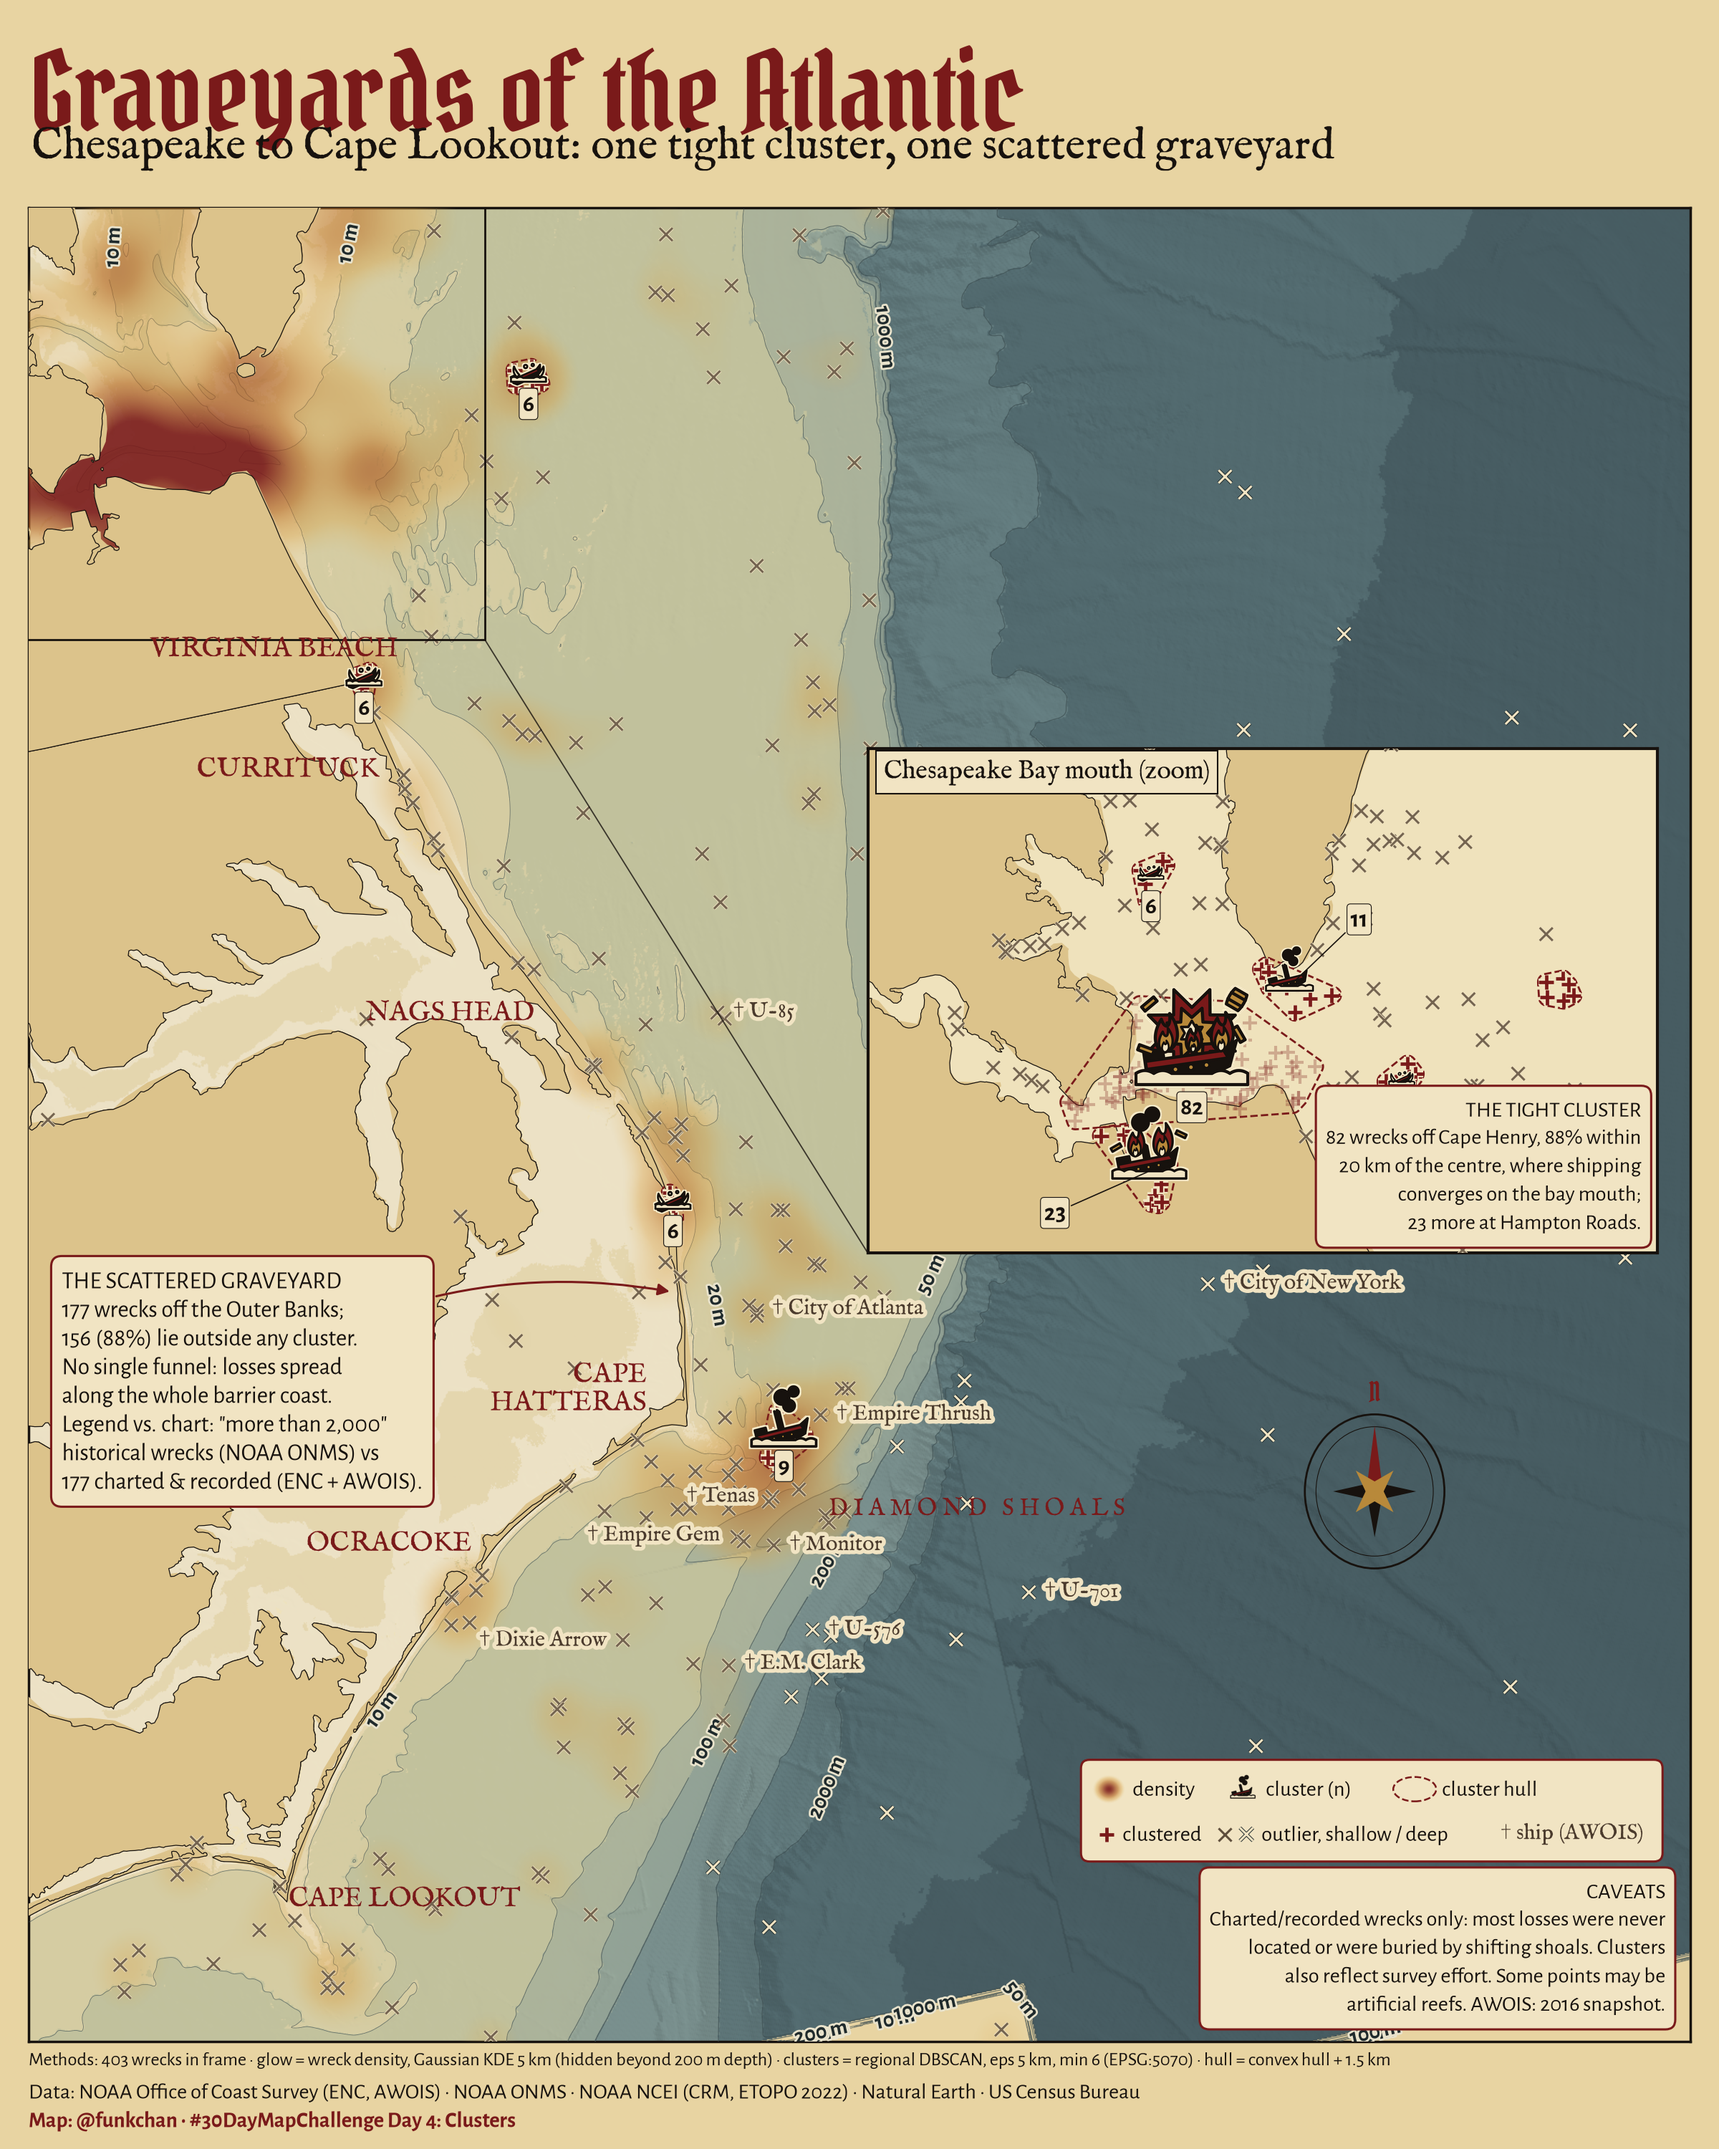
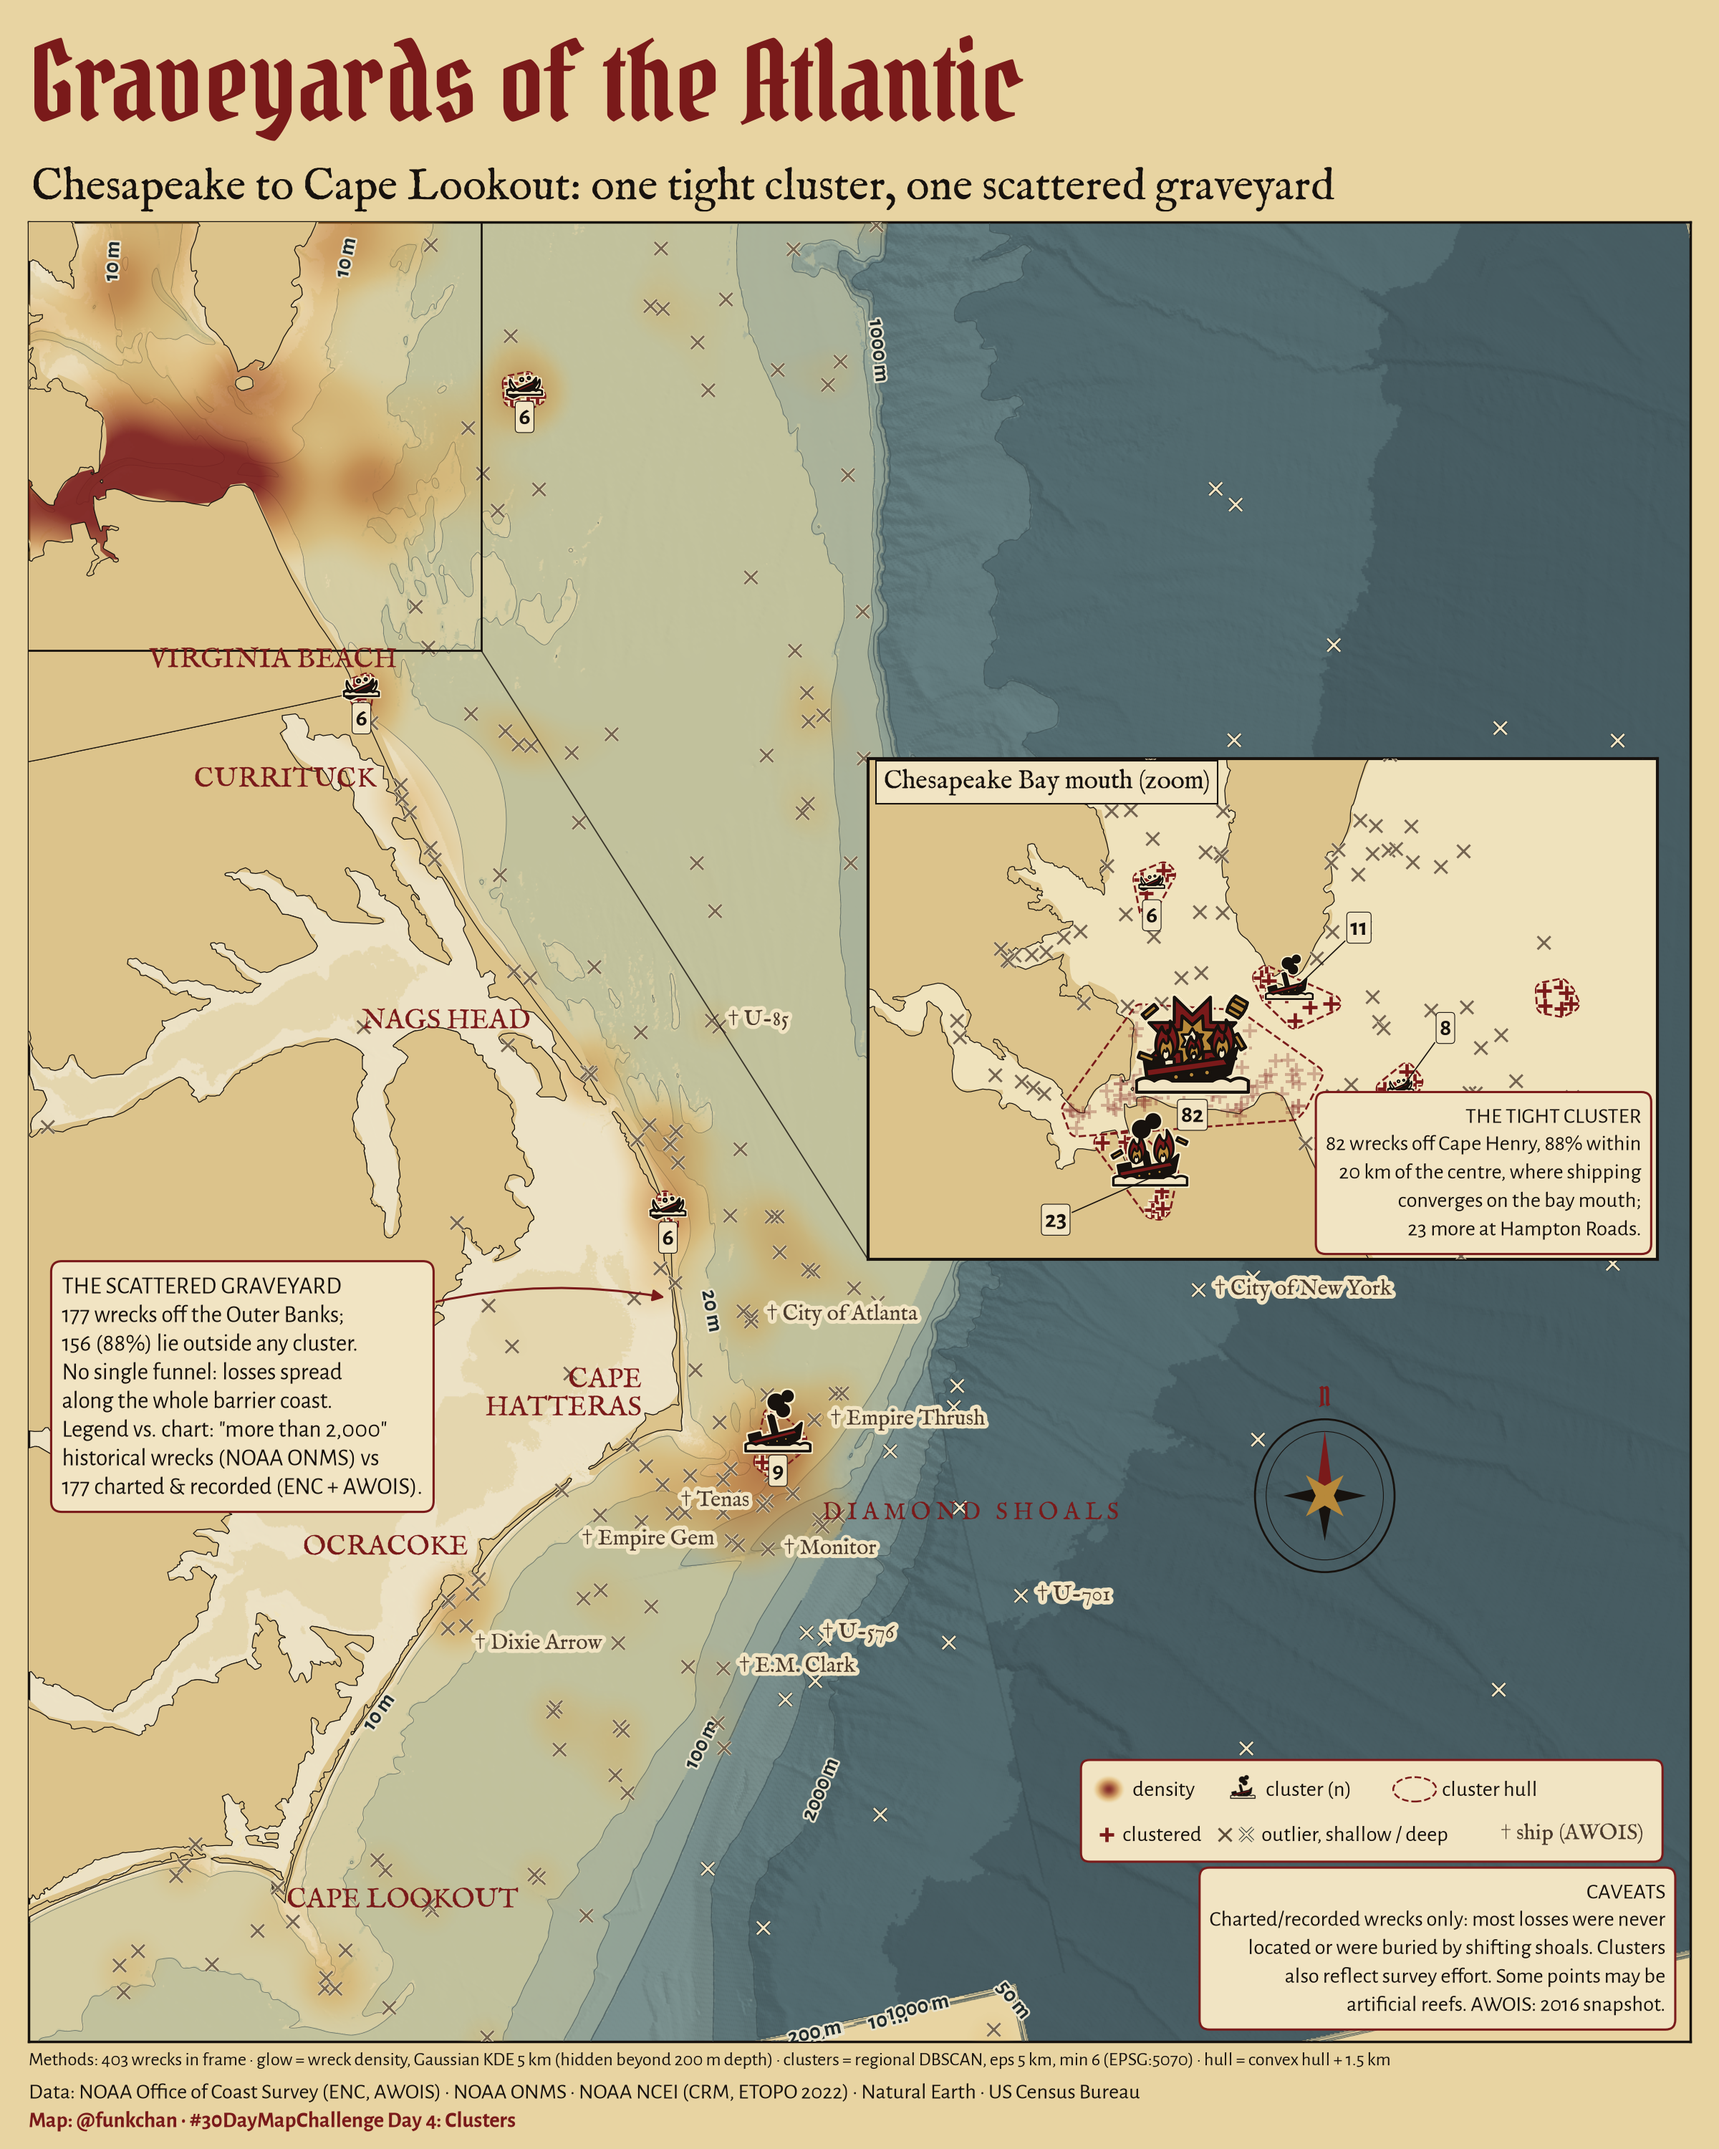
Day 4: fix title/subtitle overlap and label collisions

diff --git a/2026/day04-clusters-shipwrecks/render_e.py b/2026/day04-clusters-shipwrecks/render_e.py
@@ -2,7 +2,7 @@ import matplotlib.transforms as mt
 from pirate import *
 W,H=2400,3000;fig=plt.figure(figsize=(24,30),dpi=100);fig.patch.set_facecolor(PARCH)
 BX=(-76.75,34.35,-74.9,36.95)
-MW,MH=2320,2560
+MW,MH=2320,2540
 ax=fig.add_axes([40/W,1-2850/H,MW/W,MH/H])
 kp=gpd.GeoSeries(gpd.points_from_xy([-76.15,-76.75,-76.2],[37.02,34.5,35.5]),crs=4326).to_crs(E)
 y0=kp.y.min()-12000;y1=kp.y.max()+42000;wx=kp.x.min()-26000;wid=(y1-y0)*MW/MH
@@ -37,7 +37,7 @@ big=C.n.idxmax()
 pirate.pts=P[(P.cl>=0)&(P.cl!=big)]
 basemap(ia,ei,gly=.8,cg_=C[inI],counts=False,**kw)
 bp=P[P.cl==big];ia.scatter(bp.geometry.x,bp.geometry.y,s=170*1.3,marker='+',c=OX,lw=3,alpha=.28,zorder=5)
-OFF={11:(70,55),23:(-95,-30),82:(0,-22)}
+OFF={11:(70,55),23:(-95,-30),82:(0,-22),8:(45,50)}
 for k_,r_ in C[inI].iterrows():
     dx_,dy_=OFF.get(int(r_.n),(0,-18))
     ia.annotate(f'{int(r_.n)}',(r_.geometry.x,r_.geometry.y),xytext=(dx_,dy_),textcoords='offset points',ha='center',va='top' if dy_<=0 else 'bottom',fontsize=24,family=NUM,fontweight='bold',color=BLK,zorder=9,
@@ -128,8 +128,8 @@ for r in a.itertuples():
         if axb.contains(bb.x0,bb.y0) and axb.contains(bb.x1,bb.y1) and not any(bb.overlaps(o) for o in placed+gb):
             placed.append(bb);nl+=1;break
         tx.remove()
-fig.text(40/W,1-30/H,'Graveyards of the Atlantic',fontsize=110,family=TITLE,color=OX,va='top')
-fig.text(44/W,1-175/H,'Chesapeake to Cape Lookout: one tight cluster, one scattered graveyard',fontsize=44,family=LAB,color=BLK,va='top')
+fig.text(40/W,1-16/H,'Graveyards of the Atlantic',fontsize=110,family=TITLE,color=OX,va='top')
+fig.text(44/W,1-232/H,'Chesapeake to Cape Lookout: one tight cluster, one scattered graveyard',fontsize=44,family=LAB,color=BLK,va='top')
 fig.text(40/W,1-2862/H,f'Methods: {tot:,} wrecks in frame · glow = wreck density, Gaussian KDE 5 km (hidden beyond 200 m depth) · clusters = regional DBSCAN, eps 5 km, min 6 (EPSG:5070) · hull = convex hull + 1.5 km',fontsize=19,family=NUM,color=BLK,va='top')
 fig.text(40/W,1-2905/H,'Data: NOAA Office of Coast Survey (ENC, AWOIS) · NOAA ONMS · NOAA NCEI (CRM, ETOPO 2022) · Natural Earth · US Census Bureau',fontsize=22,family=NUM,color=BLK,va='top')
 fig.text(40/W,1-2945/H,'Map: @funkchan · #30DayMapChallenge Day 4: Clusters',fontsize=22,family=NUM,color=OX,va='top',fontweight='bold')
@@ -201,6 +201,17 @@ for t in ax.texts:
         if k: print('BOX COVERS',k,repr(t.get_text()[:20]))
 cx,cy=ax.transAxes.transform((cb[1],cb[2]));r=.07*axb.width
 print('compass covers',(np.hypot(px[:,0]-cx,px[:,1]-cy)<r).sum())
+fig.canvas.draw();_r=fig.canvas.get_renderer()
+_cl=set(cl_);_oth=[t for t in ax.texts if t not in _cl]
+for t in list(cl_):
+    b_=t.get_window_extent(_r)
+    if any(b_.overlaps(o.get_bbox_patch().get_window_extent(_r) if o.get_bbox_patch() else o.get_window_extent(_r)) for o in _oth):t.remove();print('drop isobath label',t.get_text())
+_t=fig.texts[0].get_window_extent(_r);_s=fig.texts[1].get_window_extent(_r);print('HEADER title bottom px',H-_t.y0,'subtitle top px',H-_s.y1,'gap',_s.y1 and _t.y0-_s.y1,'subtitle bottom',H-_s.y0,'map top',H-ax.get_window_extent().y1)
+_all=[t for t in fig.texts]+[t for a_ in fig.axes for t in a_.texts if t.get_visible() and t.get_text().strip() and t.axes is not None]
+_bb=[(t,(t.get_bbox_patch().get_window_extent(_r) if t.get_bbox_patch() else t.get_window_extent(_r))) for t in _all]
+for i in range(len(_bb)):
+  for j in range(i+1,len(_bb)):
+    if _bb[i][1].overlaps(_bb[j][1]):print('OVERLAP',repr(_bb[i][0].get_text()[:25]),repr(_bb[j][0].get_text()[:25]))
 fig.savefig('outputs/day04_final_v4.png',dpi=100,facecolor=PARCH)
 from PIL import Image;Image.open('outputs/day04_final_v4.png').resize((1200,1500),Image.LANCZOS).save('outputs/day04_final_v4_1200.png')
 print(tot,ob,nl,len(a))
